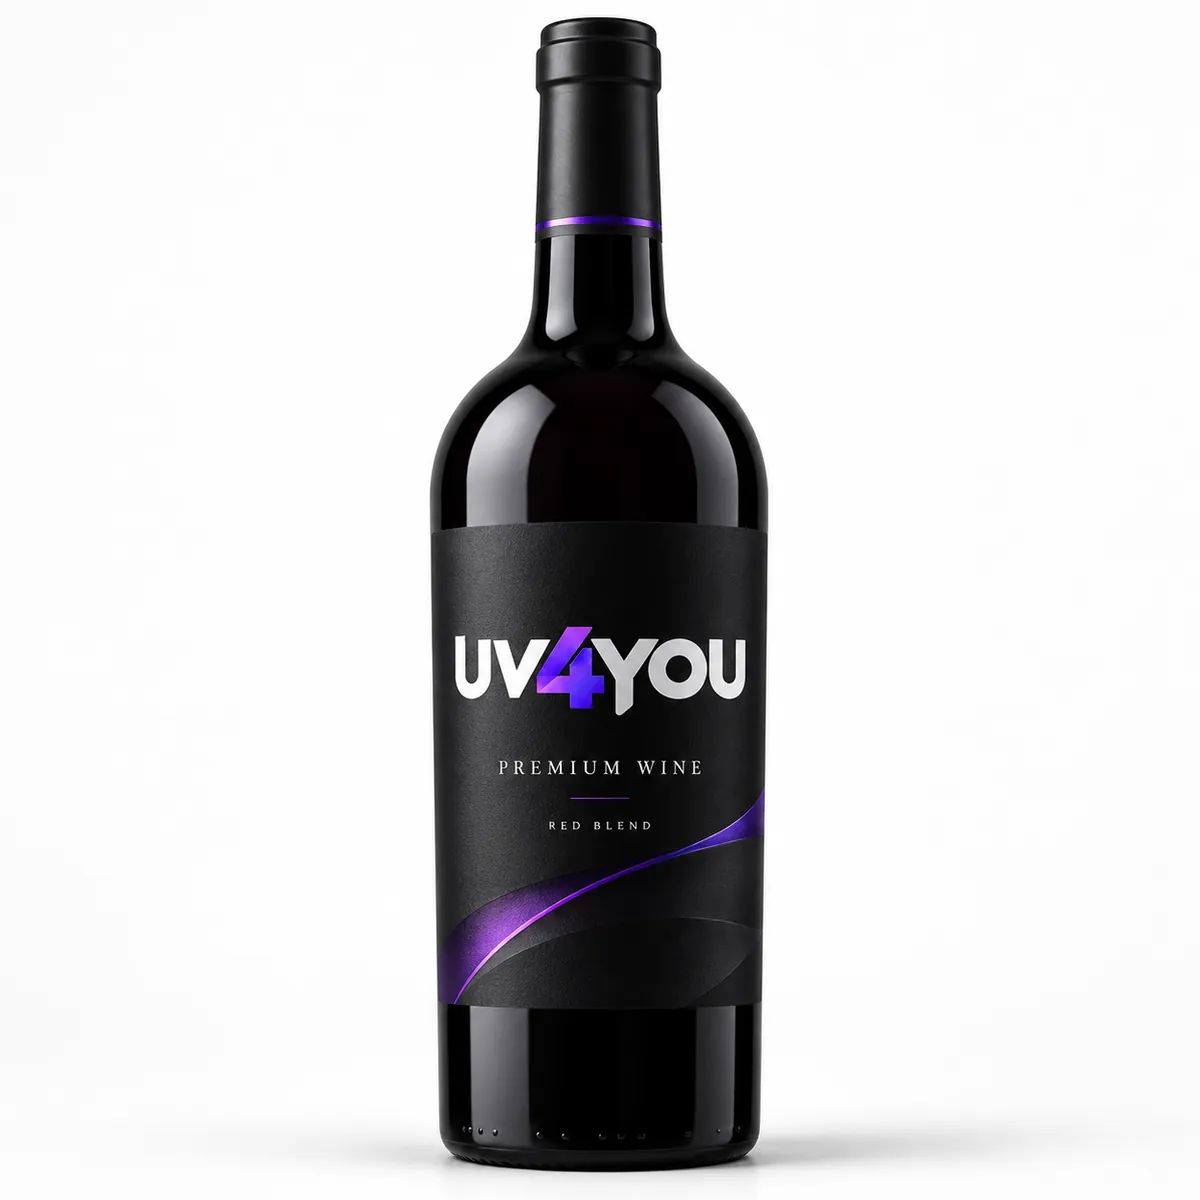
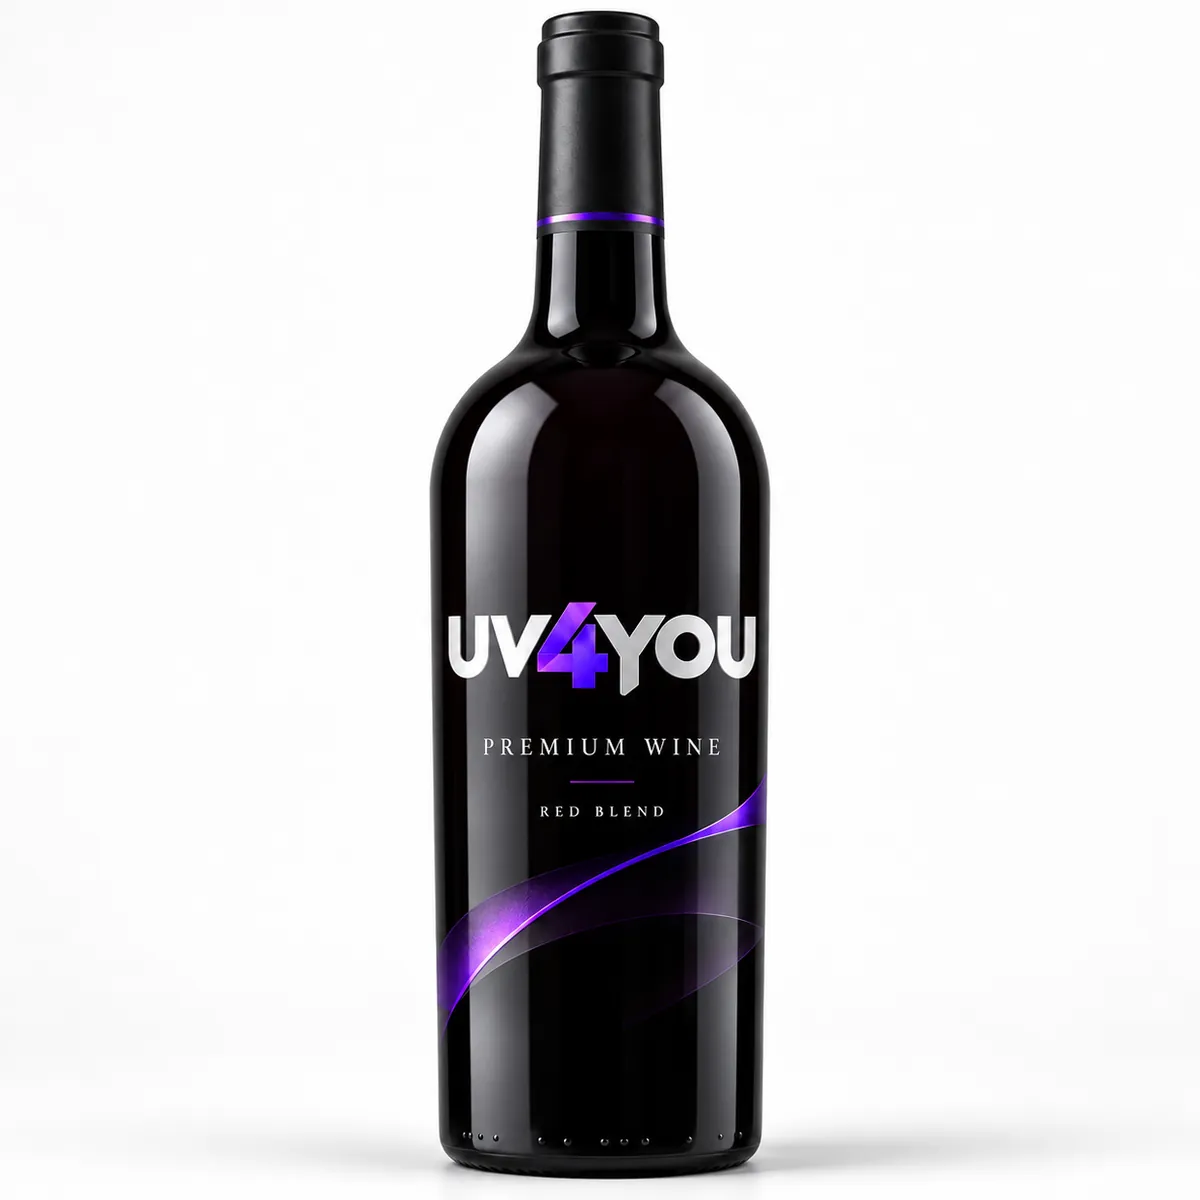
Üveg galéria: új borosüveg kép
A címkés borosüveg helyett a közvetlenül üvegre nyomtatott, lila
hullámgrafikás változat (WebP); leíró szöveg frissítve.

Changed region(s): [[0.3392, 0.0, 0.6783, 0.9867]]

diff --git a/index.html b/index.html
@@ -264,7 +264,7 @@ Közvetlen UV nyomtatás
 </div>
 <div id="felulet-uveg" class="gal-panel">
 <h3 class="gal-cim">Üveg</h3>
-<div class="galeria" data-db="3"><button type="button" class="gal-kep" data-nagy="kepek/galeria/uveg-1.webp" aria-label="Fekete borosüveg UV4YOU nyomattal – nagyítás"><img src="kepek/galeria/kicsi/uveg-1.webp" alt="Fekete borosüveg UV4YOU nyomattal" width="720" height="720" loading="lazy" decoding="async"></button><button type="button" class="gal-kep" data-nagy="kepek/galeria/uveg-2.webp" aria-label="Levendulaszínű üveg parfümös flakon UV4YOU logóval – nagyítás"><img src="kepek/galeria/kicsi/uveg-2.webp" alt="Levendulaszínű üveg parfümös flakon UV4YOU logóval" width="720" height="720" loading="lazy" decoding="async"></button><button type="button" class="gal-kep" data-nagy="kepek/galeria/uveg-3.webp" aria-label="Üveg ékszerdoboz UV4YOU logóval – nagyítás"><img src="kepek/galeria/kicsi/uveg-3.webp" alt="Üveg ékszerdoboz UV4YOU logóval" width="720" height="720" loading="lazy" decoding="async"></button></div>
+<div class="galeria" data-db="3"><button type="button" class="gal-kep" data-nagy="kepek/galeria/uveg-1.webp" aria-label="Fekete borosüveg lila hullámgrafikával, közvetlenül az üvegre nyomtatott UV4YOU logóval – nagyítás"><img src="kepek/galeria/kicsi/uveg-1.webp" alt="Fekete borosüveg lila hullámgrafikával, közvetlenül az üvegre nyomtatott UV4YOU logóval" width="720" height="720" loading="lazy" decoding="async"></button><button type="button" class="gal-kep" data-nagy="kepek/galeria/uveg-2.webp" aria-label="Levendulaszínű üveg parfümös flakon UV4YOU logóval – nagyítás"><img src="kepek/galeria/kicsi/uveg-2.webp" alt="Levendulaszínű üveg parfümös flakon UV4YOU logóval" width="720" height="720" loading="lazy" decoding="async"></button><button type="button" class="gal-kep" data-nagy="kepek/galeria/uveg-3.webp" aria-label="Üveg ékszerdoboz UV4YOU logóval – nagyítás"><img src="kepek/galeria/kicsi/uveg-3.webp" alt="Üveg ékszerdoboz UV4YOU logóval" width="720" height="720" loading="lazy" decoding="async"></button></div>
 <div class="gal-also"><p>Palackok, flakonok, dobozok és dísztárgyak – fehér aláfestéssel átlátszó felületen is élénk színek.</p><a href="#ajanlat" class="gal-cta" data-felulet="Üveg">Ajánlatot kérek – üveg →</a></div>
 </div>
 <div id="felulet-muanyag" class="gal-panel">
